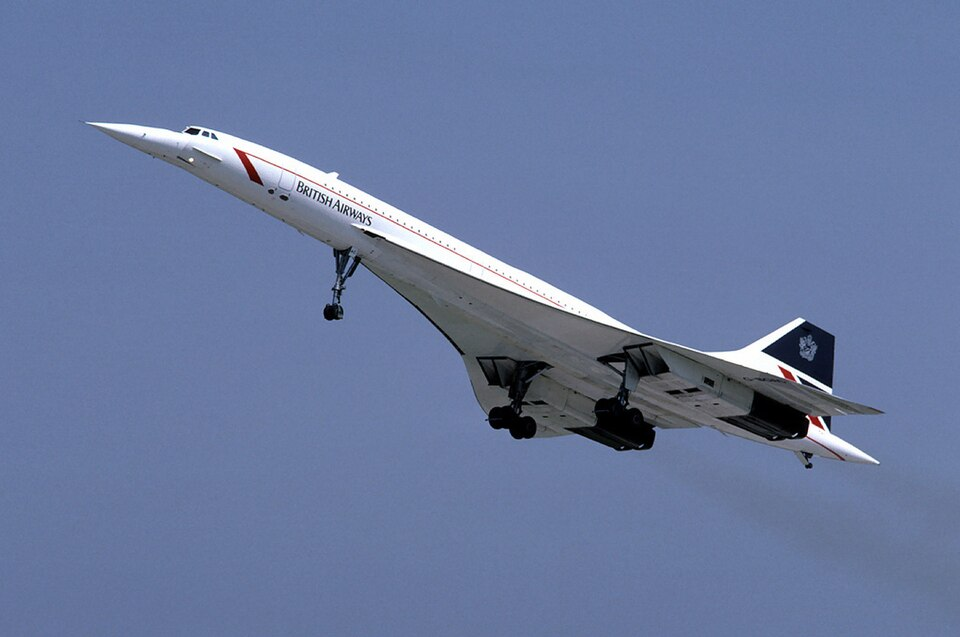
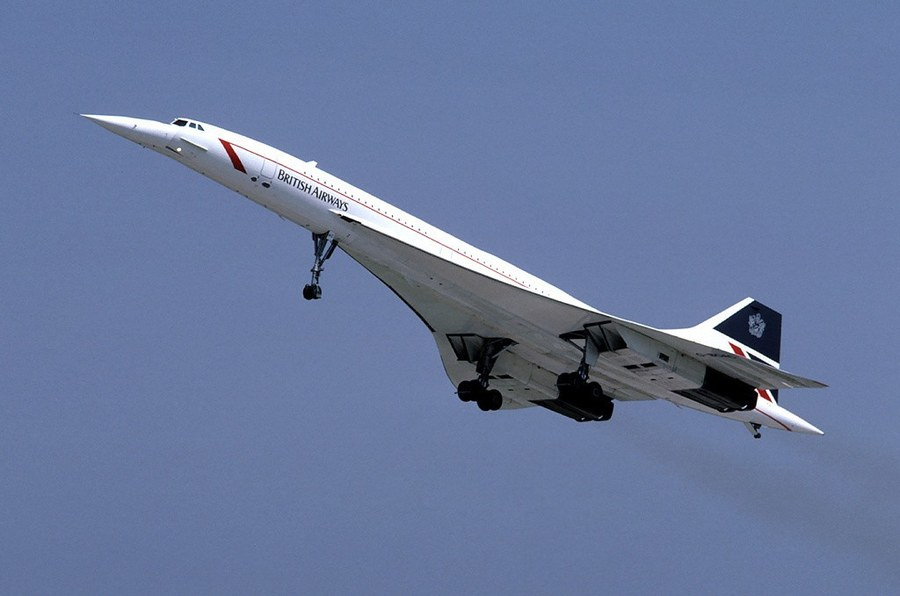
Add Concorde shop photos and paint-shop side profiles.
Use the new BA photo on the used ramp and split the profile sheet into cruise and gear-down templates so Concorde gets proper livery art.

diff --git a/js/liveryart.js b/js/liveryart.js
@@ -293,6 +293,15 @@ const LIVERY_TEMPLATES = {
     src: "img/liveries/an225.png",
     // factory-only — no paint regions needed
   },
+  conc: {
+    src: "img/liveries/conc.png",
+    srcGnd: "img/liveries/conc-gnd.png",
+    win: [0.22, 0.62, 0.70, 0.70],
+    winGnd: [0.22, 0.58, 0.70, 0.66],
+    belly: [[-0.02, 0.78], [0.82, 0.78], [0.82, 1.02], [-0.02, 1.02]],
+    eng: [[0.52, 0.70, 0.74, 0.98]],
+    tail: [[0.78, 0.52], [0.84, -0.02], [1.02, -0.02], [1.02, 0.50], [0.90, 0.52]],
+  },
 };
 
 // box [x0,y0,x1,y1] -> octagon polygon (corners cut 25% of the short side)
@@ -364,7 +373,9 @@ const LIVERY_TPL_MAP = {
   // classic quadjets
   dc8: "dc8",
   b707: "b707",
-  // no template (SVG fallback): conc, an124
+  // Concorde — cruise (gear up) + taxi (gear down, nose up)
+  conc: "conc",
+  // no template (SVG fallback): an124
 };
 
 // types whose paint can never be changed